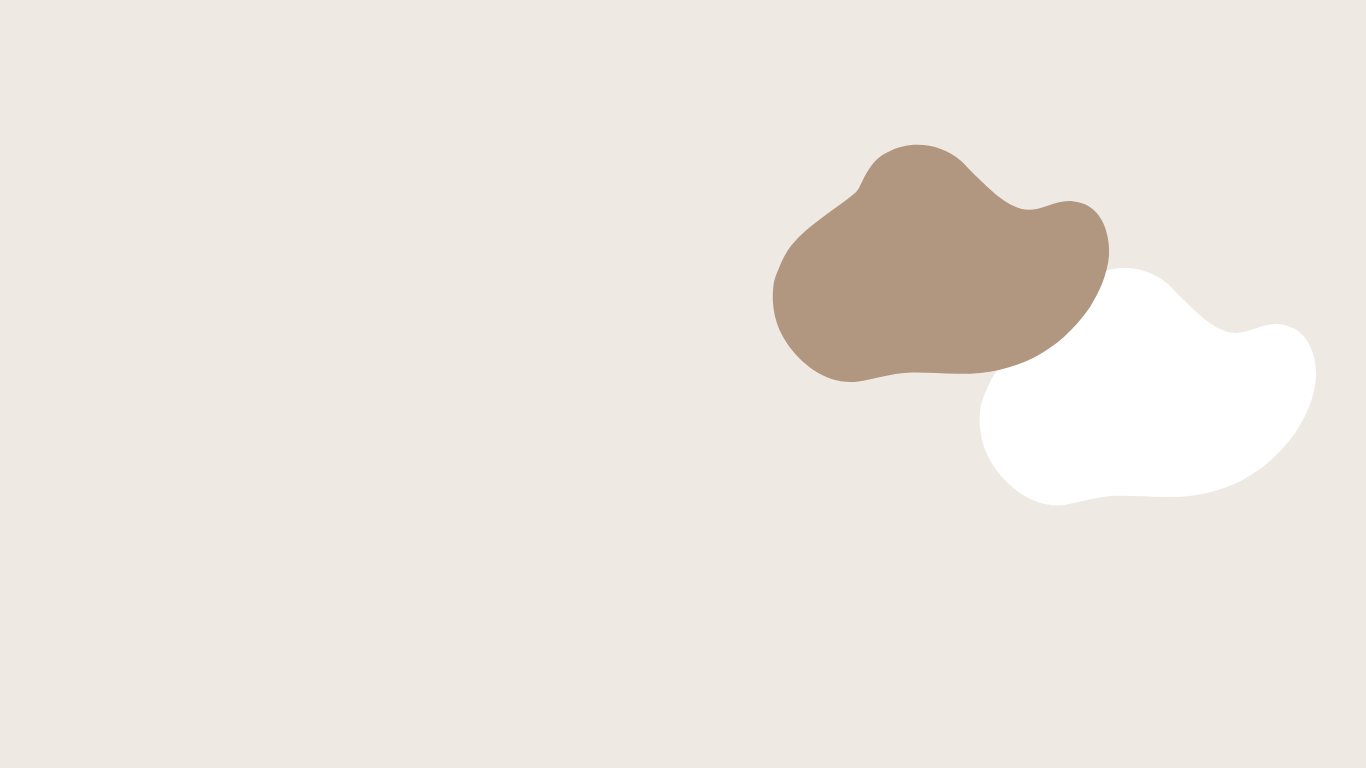
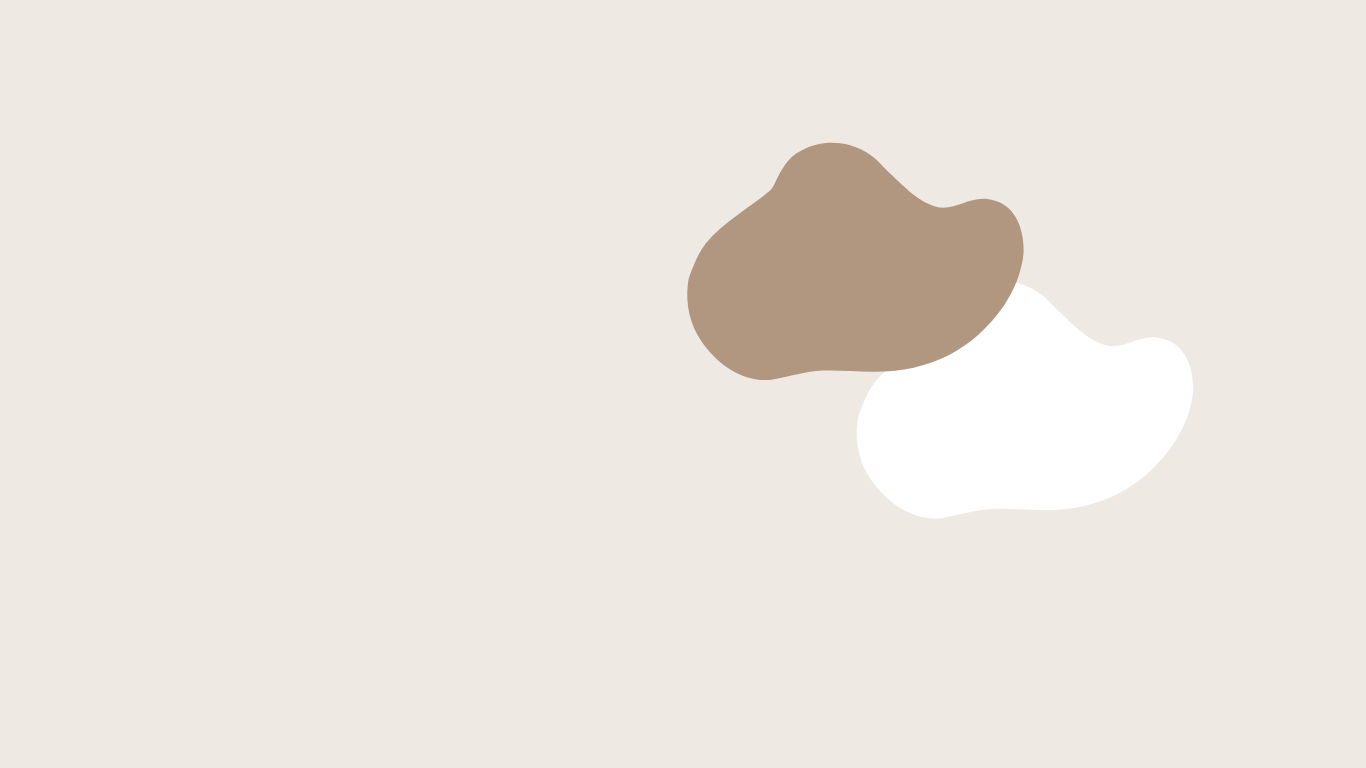
fix(landing page): update background and text

Changed region(s): [[0.4919, 0.1875, 0.9839, 0.6875]]

diff --git a/assets/css/style.css b/assets/css/style.css
@@ -1,3 +1,4 @@
+@import url('https://fonts.googleapis.com/css2?family=Amatic+SC:wght@400;700&family=Righteous&display=swap');
 *{
     margin: 0;
     padding: 0;
@@ -5,11 +6,9 @@
    
 }
 body{
-    font-family: Perpetua, Baskerville, "Big Caslon", "Palatino Linotype", Palatino, "URW Palladio L", "Nimbus Roman No9 L", serif;
-    font-size: 24px; 
+    font-family: "Righteous", sans-serif;
+    font-weight: 400;
     font-style: normal;
-    font-variant: normal; 
-    font-weight: 700; 
     line-height: 26.4px;
     background-image: url(../img/Landing\ Page.png);
     background-size: cover;
@@ -27,33 +26,40 @@ body{
     display: flex;
     width: 80%;
     height: 80%;
-    margin-left: 50px;
+    margin-left: 60px;
     border-top-right-radius: 100px;
     border-bottom-left-radius: 100px;
-    border: 10px solid  #4f351e;
+    border: 5px solid  #4f351e;
     box-shadow: #5746209a 10px 10px 10px;
 }
 .content{
     display: flex;
     flex-direction: column;
-    width: 60%;
+    width: 90%;
     height: 50%;
     align-items: flex-start;
     justify-content: flex-start;
+}
+.content h2{
+    font-size: 40px;
+    color: #4f351e;
+    margin-top: 5%;
+    font-weight: 90;
 
 }
 .content h1{
     font-size: 80px;
     color: #4f351e;
-    margin-top: 10%;
+    margin-top: 5%;
    
 }
 .content p{
-    width: 60%;
-    font-size: 20px;
+    width: 70%;
+    font-size: 13px;
     color: #4f351e;
     margin-top: 5%;
     margin-bottom: 5%;
+    font-weight: 90;
 
 }
 .content a{
@@ -65,7 +71,7 @@ body{
     border: 3px solid #4f351e;
     padding: 10px 20px;
     border-radius: 50px;
-    margin-bottom: 20%;
+    margin-bottom: 14%;
     transition: 0.5s;
 }
 .content a:hover{

diff --git a/index.html b/index.html
@@ -12,8 +12,9 @@
            <img src="./assets/img/me.jpg" alt="">
         </div>
         <div class="content">
+            <h2>Its me!</h2>
             <h1>AVIONA BERNIL</h1>
-            <p>Bachelor of Science in Information Technology with Specialization in Business Analytics</p>
+            <p>Currently studying Bachelor of Science in Information Technology with Specialization in Business Analytics</p>
             <a href="./pages/aboutme/index.html">Know more</a>
             <div class="logo">
                 <img src="./assets/img/logo.png" alt="">
